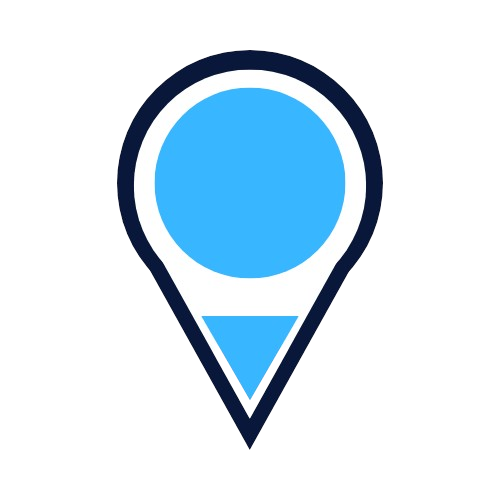
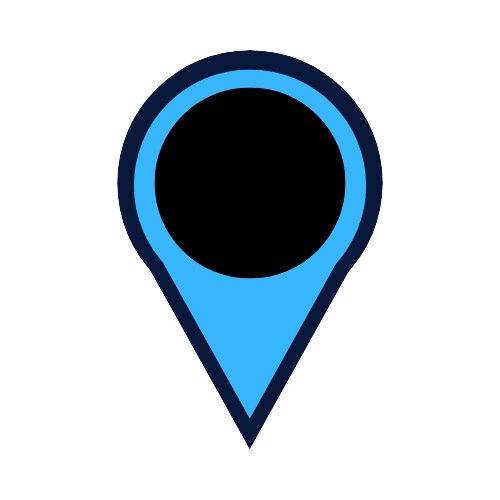
player position and player images updated

Changed region(s): [[0.27, 0.12, 0.75, 0.84], [0.48, 0.87, 0.51, 0.9]]

diff --git a/index.js b/index.js
@@ -639,7 +639,7 @@ class Player{
         this.winningPositionX = winningPositionX
         this.winningPositionY = winningPositionY
         this.sharing = false
-        this.centerPositionX = 5
+        this.centerPositionX = 4.5
         this.centerPositionY = 5
         this.tileDim = this.canvas.height / 5;
         this.playerPosX = this.tileDim / this.centerPositionX;
